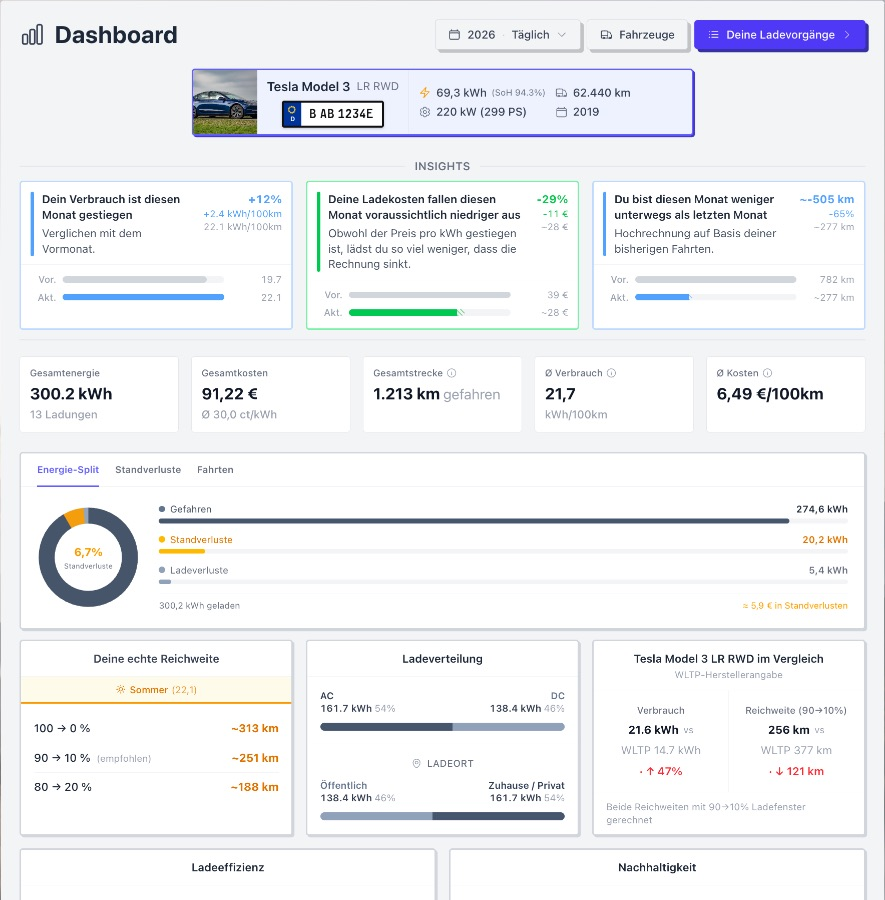
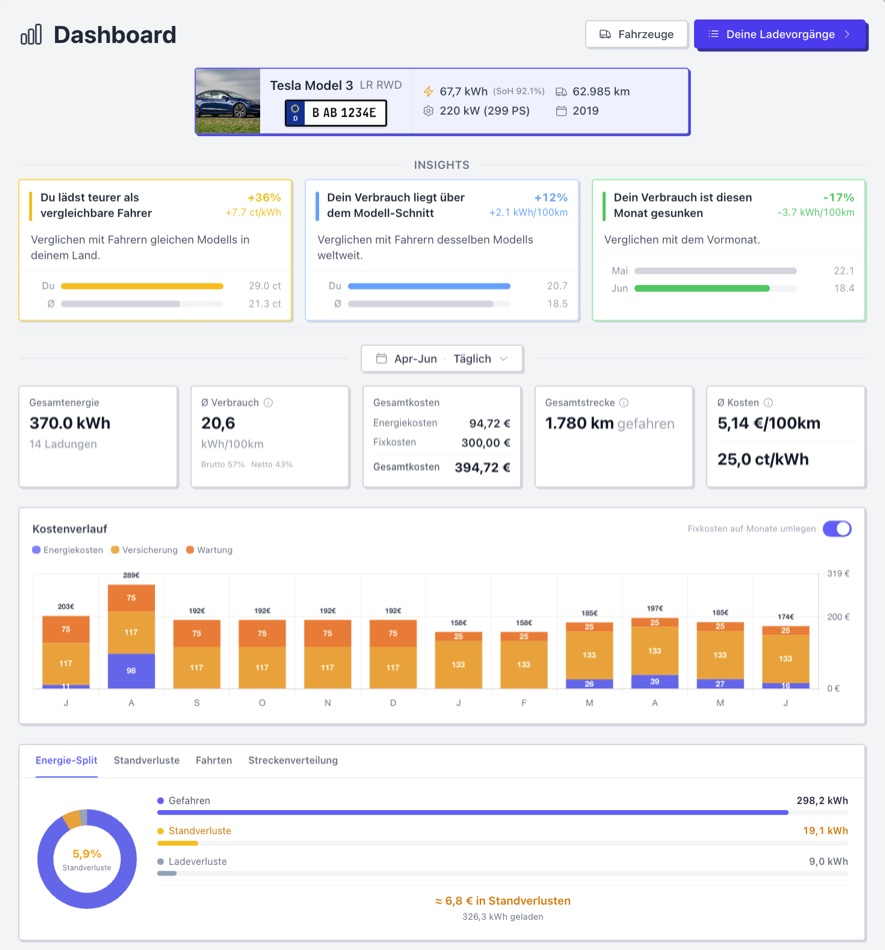
feat(landing): Dashboard-Screenshot aktualisiert, Zoom-Hover fuer Previews
- dashboard-light.jpg gegen neue Aufnahme getauscht (885x950)
- alle App-Preview-Screenshots zoomen beim Hover leicht (scale 1.06)

diff --git a/frontend/src/views/LandingPageView.vue b/frontend/src/views/LandingPageView.vue
@@ -507,14 +507,14 @@ const demoLogin = async (source: 'hero' | 'models_section' | 'dashboard_preview'
 
           <!-- Dashboard screenshot (mobile pos 3) -->
           <div class="order-2 lg:order-none lg:col-start-2 lg:row-start-1 lg:row-span-2 lg:self-center w-full max-w-xl lg:max-w-none mx-auto relative">
-            <div class="rounded-xl border-2 border-gray-900 dark:border-gray-100 shadow-[8px_8px_0_0_#15803d] dark:shadow-[8px_8px_0_0_#22c55e] overflow-hidden relative">
+            <div class="rounded-xl border-2 border-gray-900 dark:border-gray-100 shadow-[8px_8px_0_0_#15803d] dark:shadow-[8px_8px_0_0_#22c55e] overflow-hidden relative transition duration-300 ease-out hover:scale-[1.06]">
               <img
                 src="/screenshots/dashboard-light.jpg"
                 alt="EV Monitor Dashboard"
                 class="w-full block h-auto"
                 loading="lazy"
                 width="885"
-                height="900"
+                height="950"
               />
               <div class="absolute bottom-0 left-0 right-0 h-16 bg-gradient-to-b from-transparent to-white dark:to-gray-900 pointer-events-none"></div>
             </div>
@@ -563,7 +563,7 @@ const demoLogin = async (source: 'hero' | 'models_section' | 'dashboard_preview'
 
           <!-- Logfeed screenshot (mobile pos 3) -->
           <div class="order-2 lg:order-none lg:col-start-1 lg:row-start-1 lg:row-span-2 lg:self-center w-full max-w-xl lg:max-w-none mx-auto relative">
-            <div class="rounded-xl border-2 border-gray-900 dark:border-gray-100 shadow-[8px_8px_0_0_#15803d] dark:shadow-[8px_8px_0_0_#22c55e] overflow-hidden relative">
+            <div class="rounded-xl border-2 border-gray-900 dark:border-gray-100 shadow-[8px_8px_0_0_#15803d] dark:shadow-[8px_8px_0_0_#22c55e] overflow-hidden relative transition duration-300 ease-out hover:scale-[1.06]">
               <img
                 src="/screenshots/logfeed-light.jpg"
                 alt="EV Monitor Ladehistorie"
@@ -619,7 +619,7 @@ const demoLogin = async (source: 'hero' | 'models_section' | 'dashboard_preview'
               <h3 class="text-2xl font-bold text-gray-900 dark:text-gray-100 mt-1 mb-2">{{ t('landing.app_preview.map_title') }}</h3>
             </div>
             <!-- Screenshot (mobile pos 2) -->
-            <div class="order-2 lg:order-1 mt-3 lg:mt-0 rounded-xl border-2 border-gray-900 dark:border-gray-100 shadow-[6px_6px_0_0_#15803d] dark:shadow-[6px_6px_0_0_#22c55e] overflow-hidden">
+            <div class="order-2 lg:order-1 mt-3 lg:mt-0 rounded-xl border-2 border-gray-900 dark:border-gray-100 shadow-[6px_6px_0_0_#15803d] dark:shadow-[6px_6px_0_0_#22c55e] overflow-hidden transition duration-300 ease-out hover:scale-[1.06]">
               <img
                 src="/screenshots/map-light.jpg"
                 alt="EV Monitor Lade-Standorte Karte"
@@ -649,7 +649,7 @@ const demoLogin = async (source: 'hero' | 'models_section' | 'dashboard_preview'
               <h3 class="text-2xl font-bold text-gray-900 dark:text-gray-100 mt-1 mb-2">{{ t('landing.app_preview.charts_title') }}</h3>
             </div>
             <!-- Screenshot (mobile pos 2) -->
-            <div class="order-2 lg:order-1 mt-3 lg:mt-0 rounded-xl border-2 border-gray-900 dark:border-gray-100 shadow-[6px_6px_0_0_#15803d] dark:shadow-[6px_6px_0_0_#22c55e] overflow-hidden">
+            <div class="order-2 lg:order-1 mt-3 lg:mt-0 rounded-xl border-2 border-gray-900 dark:border-gray-100 shadow-[6px_6px_0_0_#15803d] dark:shadow-[6px_6px_0_0_#22c55e] overflow-hidden transition duration-300 ease-out hover:scale-[1.06]">
               <img
                 src="/screenshots/charts-light.jpg"
                 alt="EV Monitor Analysen Kosten und Verbrauch"
